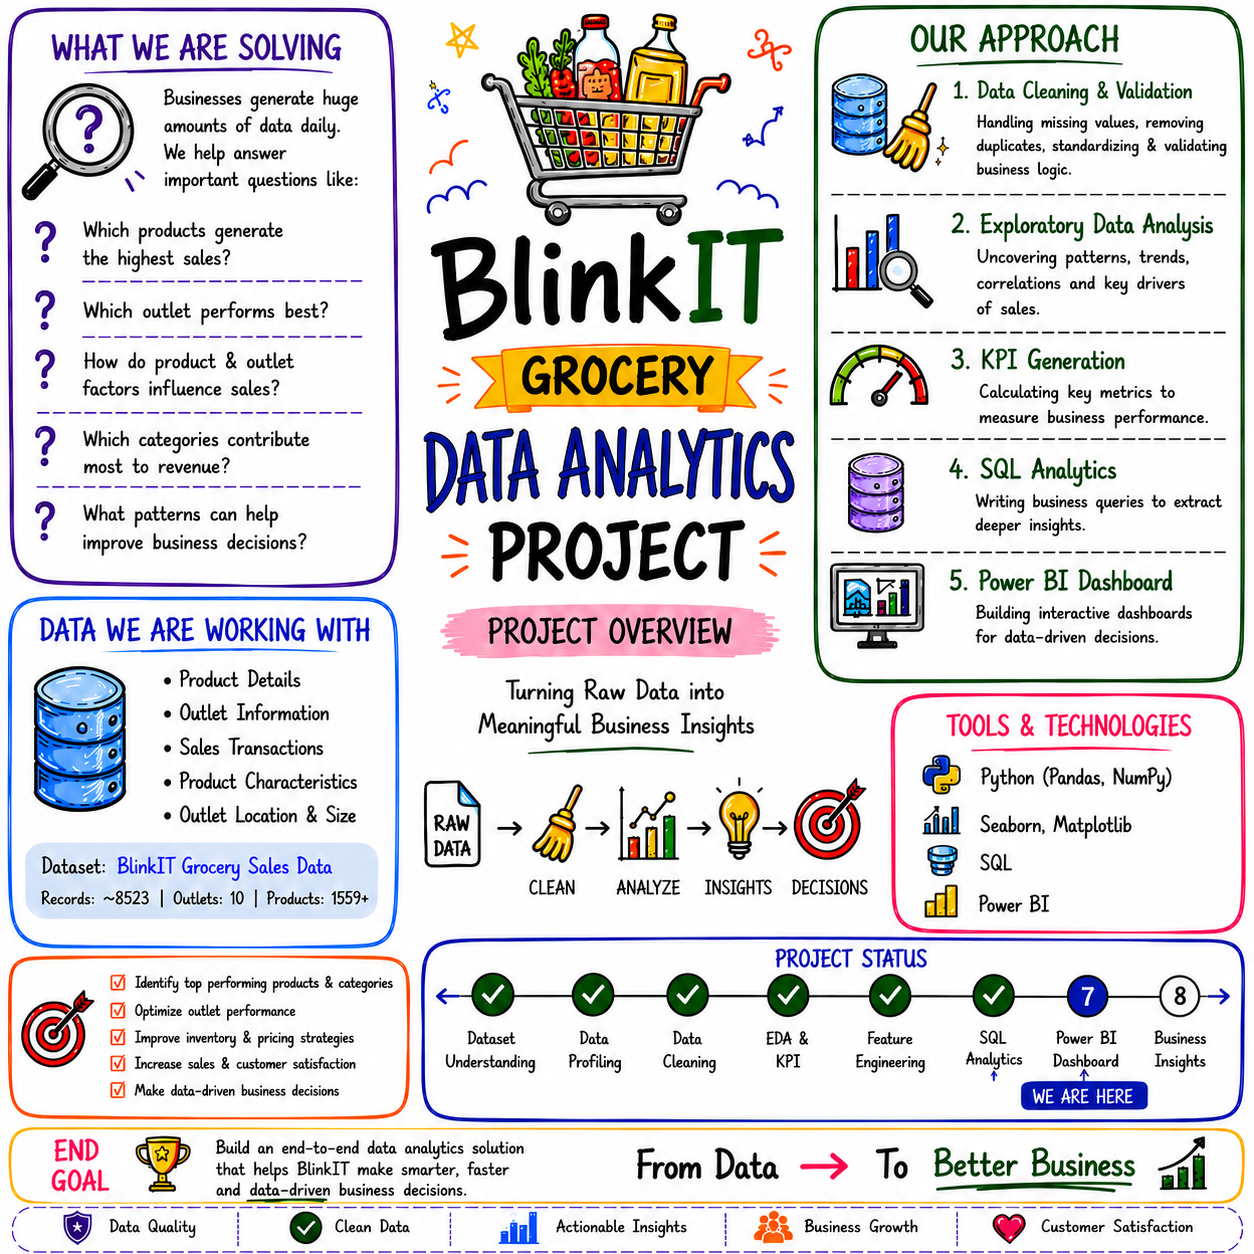
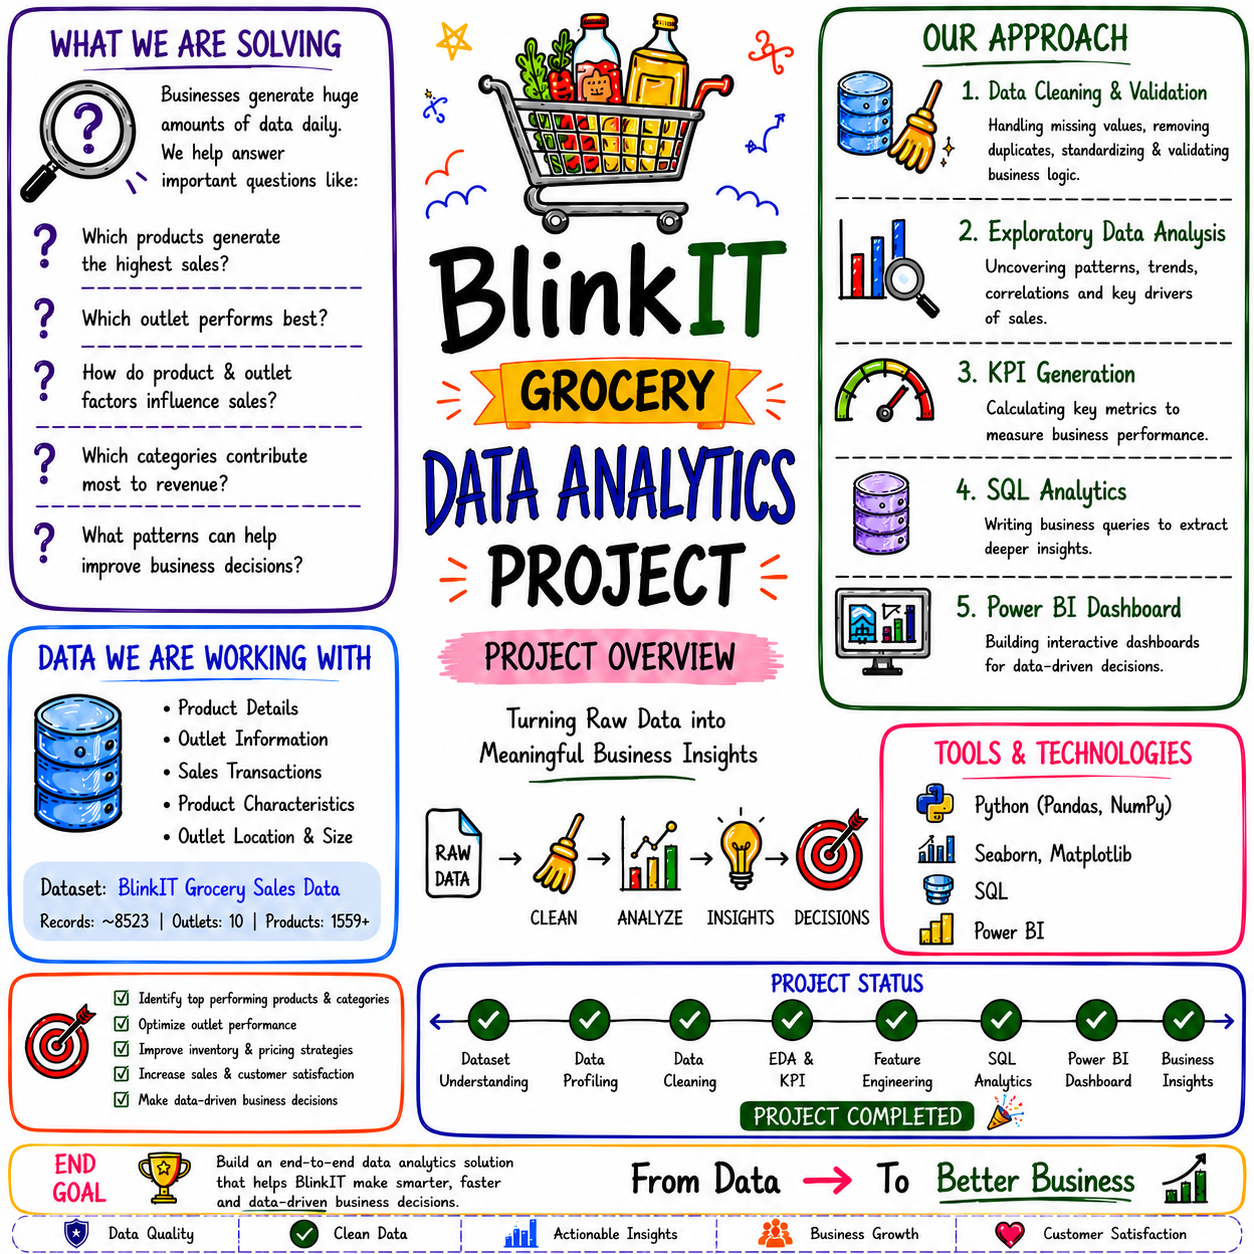
Completed BlinkIT Grocery Data Analytics Project

diff --git a/README.md b/README.md
@@ -45,18 +45,16 @@ Without proper analysis, it becomes difficult to answer questions such as:
 
 ## Project Progress
 
-```text
-Dataset Understanding      ✅
-Data Profiling             ✅
-Data Cleaning              ✅
-Exploratory Data Analysis  ✅
-Feature Engineering        ✅
-KPI Creation               ✅
-SQL Analytics              ✅
-Power BI Dashboard         ✅
-Business Insights          🔄
-Portfolio Optimization     ⏳
-```
+Dataset Understanding      ✅  
+Data Profiling             ✅  
+Data Cleaning              ✅  
+Exploratory Data Analysis  ✅  
+Feature Engineering        ✅  
+KPI Creation               ✅  
+SQL Analytics              ✅  
+Power BI Dashboard         ✅  
+Business Insights          ✅  
+Portfolio Optimization     ✅  
 
 ---
 
@@ -126,19 +124,55 @@ Created Features:
 
 ---
 
+## Business Insights & Recommendations
+
+### Key Insights
+
+1. Fruits & Vegetables generated the highest revenue, indicating strong customer demand and consistent sales volume.
+
+2. Supermarket Type1 contributed nearly 70% of total sales, making it the primary revenue driver.
+
+3. Tier 3 locations generated the strongest overall revenue, suggesting higher market potential in these areas.
+
+4. OUT027 consistently ranked as the top-performing outlet across multiple analyses.
+
+5. Medium-sized outlets generated the highest sales, indicating an effective balance between capacity and operations.
+
+6. Grocery Stores showed the weakest performance, suggesting opportunities for strategy improvement.
+
+7. Regular and Low Fat products showed only small sales differences, indicating fat content has limited influence on purchasing behavior.
+
+8. Priority categories identified:
+   - Fruits & Vegetables
+   - Snack Foods
+   - Household
+
+### Business Recommendations
+
+- Increase inventory for high-performing categories
+- Expand strategies used by OUT027 to similar outlets
+- Improve performance strategies for Grocery Stores
+- Focus marketing efforts on Tier 3 markets
+- Maintain stock availability for top-selling products
+
+---
+
 ## Tech Stack
 
 ### Programming & Analysis
+
 - Python
 - Pandas
 - NumPy
 
 ### Visualization
+
 - Matplotlib
 - Seaborn
 - Power BI
 
 ### Database
+
 - SQL (SQLite)
 
 ---
@@ -170,8 +204,8 @@ blinkit_analysis
 ├── blinkit.db
 ├── README.md
 └── .gitignore
-```
 
+```
 ---
 
 ## Future Enhancements
